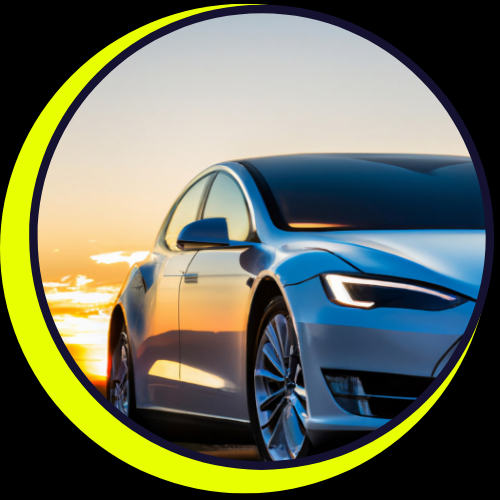
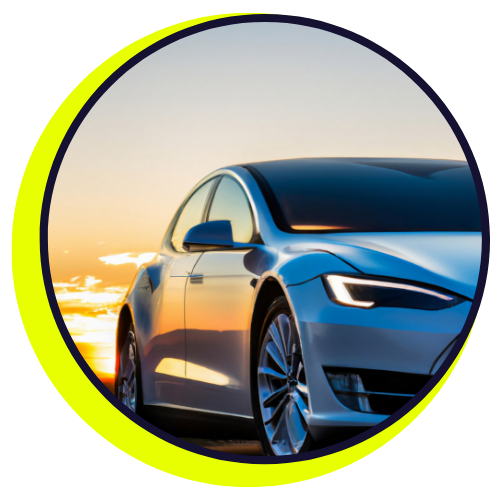
Change welcome text to single line, make all images fully rounded, add 1.1.png image under welcome text

diff --git a/app/page.tsx b/app/page.tsx
@@ -38,7 +38,7 @@ export default function Page() {
 
       {/* 1) Obraz 200×200 – center (stały rozmiar mieści się na mobile) */}
       <section className="w-full flex items-center justify-center bg-white rounded-md p-4">
-        <Image src="/LOGO.png" width={200} height={200} alt="Zdjęcie wyśrodkowane 200×200" className="rounded-md" />
+        <Image src="/LOGO.png" width={200} height={200} alt="Zdjęcie wyśrodkowane 200×200" className="rounded-full" />
       </section>
       <Gap size="lg" />
 
@@ -227,15 +227,16 @@ function SectionCenteredImageFluid({
 
 /* Teksty i sekcje – jak wcześniej */
 function CenteredWelcomeText() {
-  const text = `
-Witamy w Skup Aut 24h/7 – partner, na którego możesz liczyć zawsze i wszędzie!
-Działamy 24/7 na terenie Śląska, Łódzkiego, Opolskiego i Świętokrzyskiego, oferując szybki i bezpieczny skup aut za gotówkę.
-`.trim();
+  const text = "Witamy w Skup Aut 24h/7 – partner, na którego możesz liczyć zawsze i wszędzie! Działamy 24/7 na terenie Śląska, Łódzkiego, Opolskiego i Świętokrzyskiego, oferując szybki i bezpieczny skup aut za gotówkę.";
   return (
     <section className="w-full">
-      <div className="mx-auto max-w-3xl text-center text-base md:text-lg leading-relaxed" style={{ whiteSpace: "pre-line" }}>
+      <div className="mx-auto max-w-3xl text-center text-base md:text-lg leading-relaxed">
         {text}
       </div>
+      <Gap size="lg" />
+      <section className="w-full flex items-center justify-center">
+        <Image src="/1.1.png" width={240} height={240} alt="Zdjęcie 1.1" />
+      </section>
     </section>
   );
 }
@@ -259,7 +260,7 @@ Działamy 24 godziny na dobę, 7 dni w tygodniu, a nasz zespół to pasjonaci mo
           </div>
         </div>
         <div className="sm:col-span-1">
-          <Image src="/1.5.png" width={360} height={360} alt="Zdjęcie (360×360)" className="rounded-md" />
+          <Image src="/1.5.png" width={360} height={360} alt="Zdjęcie (360×360)" className="rounded-full" />
         </div>
       </div>
     </section>

diff --git a/app/kontakt/page.tsx b/app/kontakt/page.tsx
@@ -76,13 +76,13 @@ export default function Page() {
       {/* Trzy obrazy 200×200: lewa / środek / prawa */}
       <section className="grid grid-cols-1 md:grid-cols-3 gap-6 items-start">
         <div className="flex justify-start md:justify-center">
-          <Image src="/3.0.png" width={200} height={200} alt="200×200 (lewa)" className="rounded-md" />
+          <Image src="/3.0.png" width={200} height={200} alt="200×200 (lewa)" className="rounded-full" />
         </div>
         <div className="flex justify-center">
-          <Image src="/3.1.png" width={200} height={200} alt="200×200 (środek)" className="rounded-md" />
+          <Image src="/3.1.png" width={200} height={200} alt="200×200 (środek)" className="rounded-full" />
         </div>
         <div className="flex justify-end md:justify-center">
-          <Image src="/3.2.png" width={200} height={200} alt="200×200 (prawa)" className="rounded-md" />
+          <Image src="/3.2.png" width={200} height={200} alt="200×200 (prawa)" className="rounded-full" />
         </div>
       </section>
 

diff --git a/app/jakie-auta-kupujemy/page.tsx b/app/jakie-auta-kupujemy/page.tsx
@@ -49,7 +49,7 @@ W Skup Aut 24h/7 stawiamy na uczciwość, przejrzystość i zadowolenie klienta 
             </p>
           </div>
           <div className="sm:col-span-1">
-            <Image src="/2.1.png" width={300} height={200} alt="Zdjęcie 2 (300×200)" className="rounded-md" />
+            <Image src="/2.1.png" width={300} height={200} alt="Zdjęcie 2 (300×200)" className="rounded-full" />
           </div>
         </div>
       </section>
